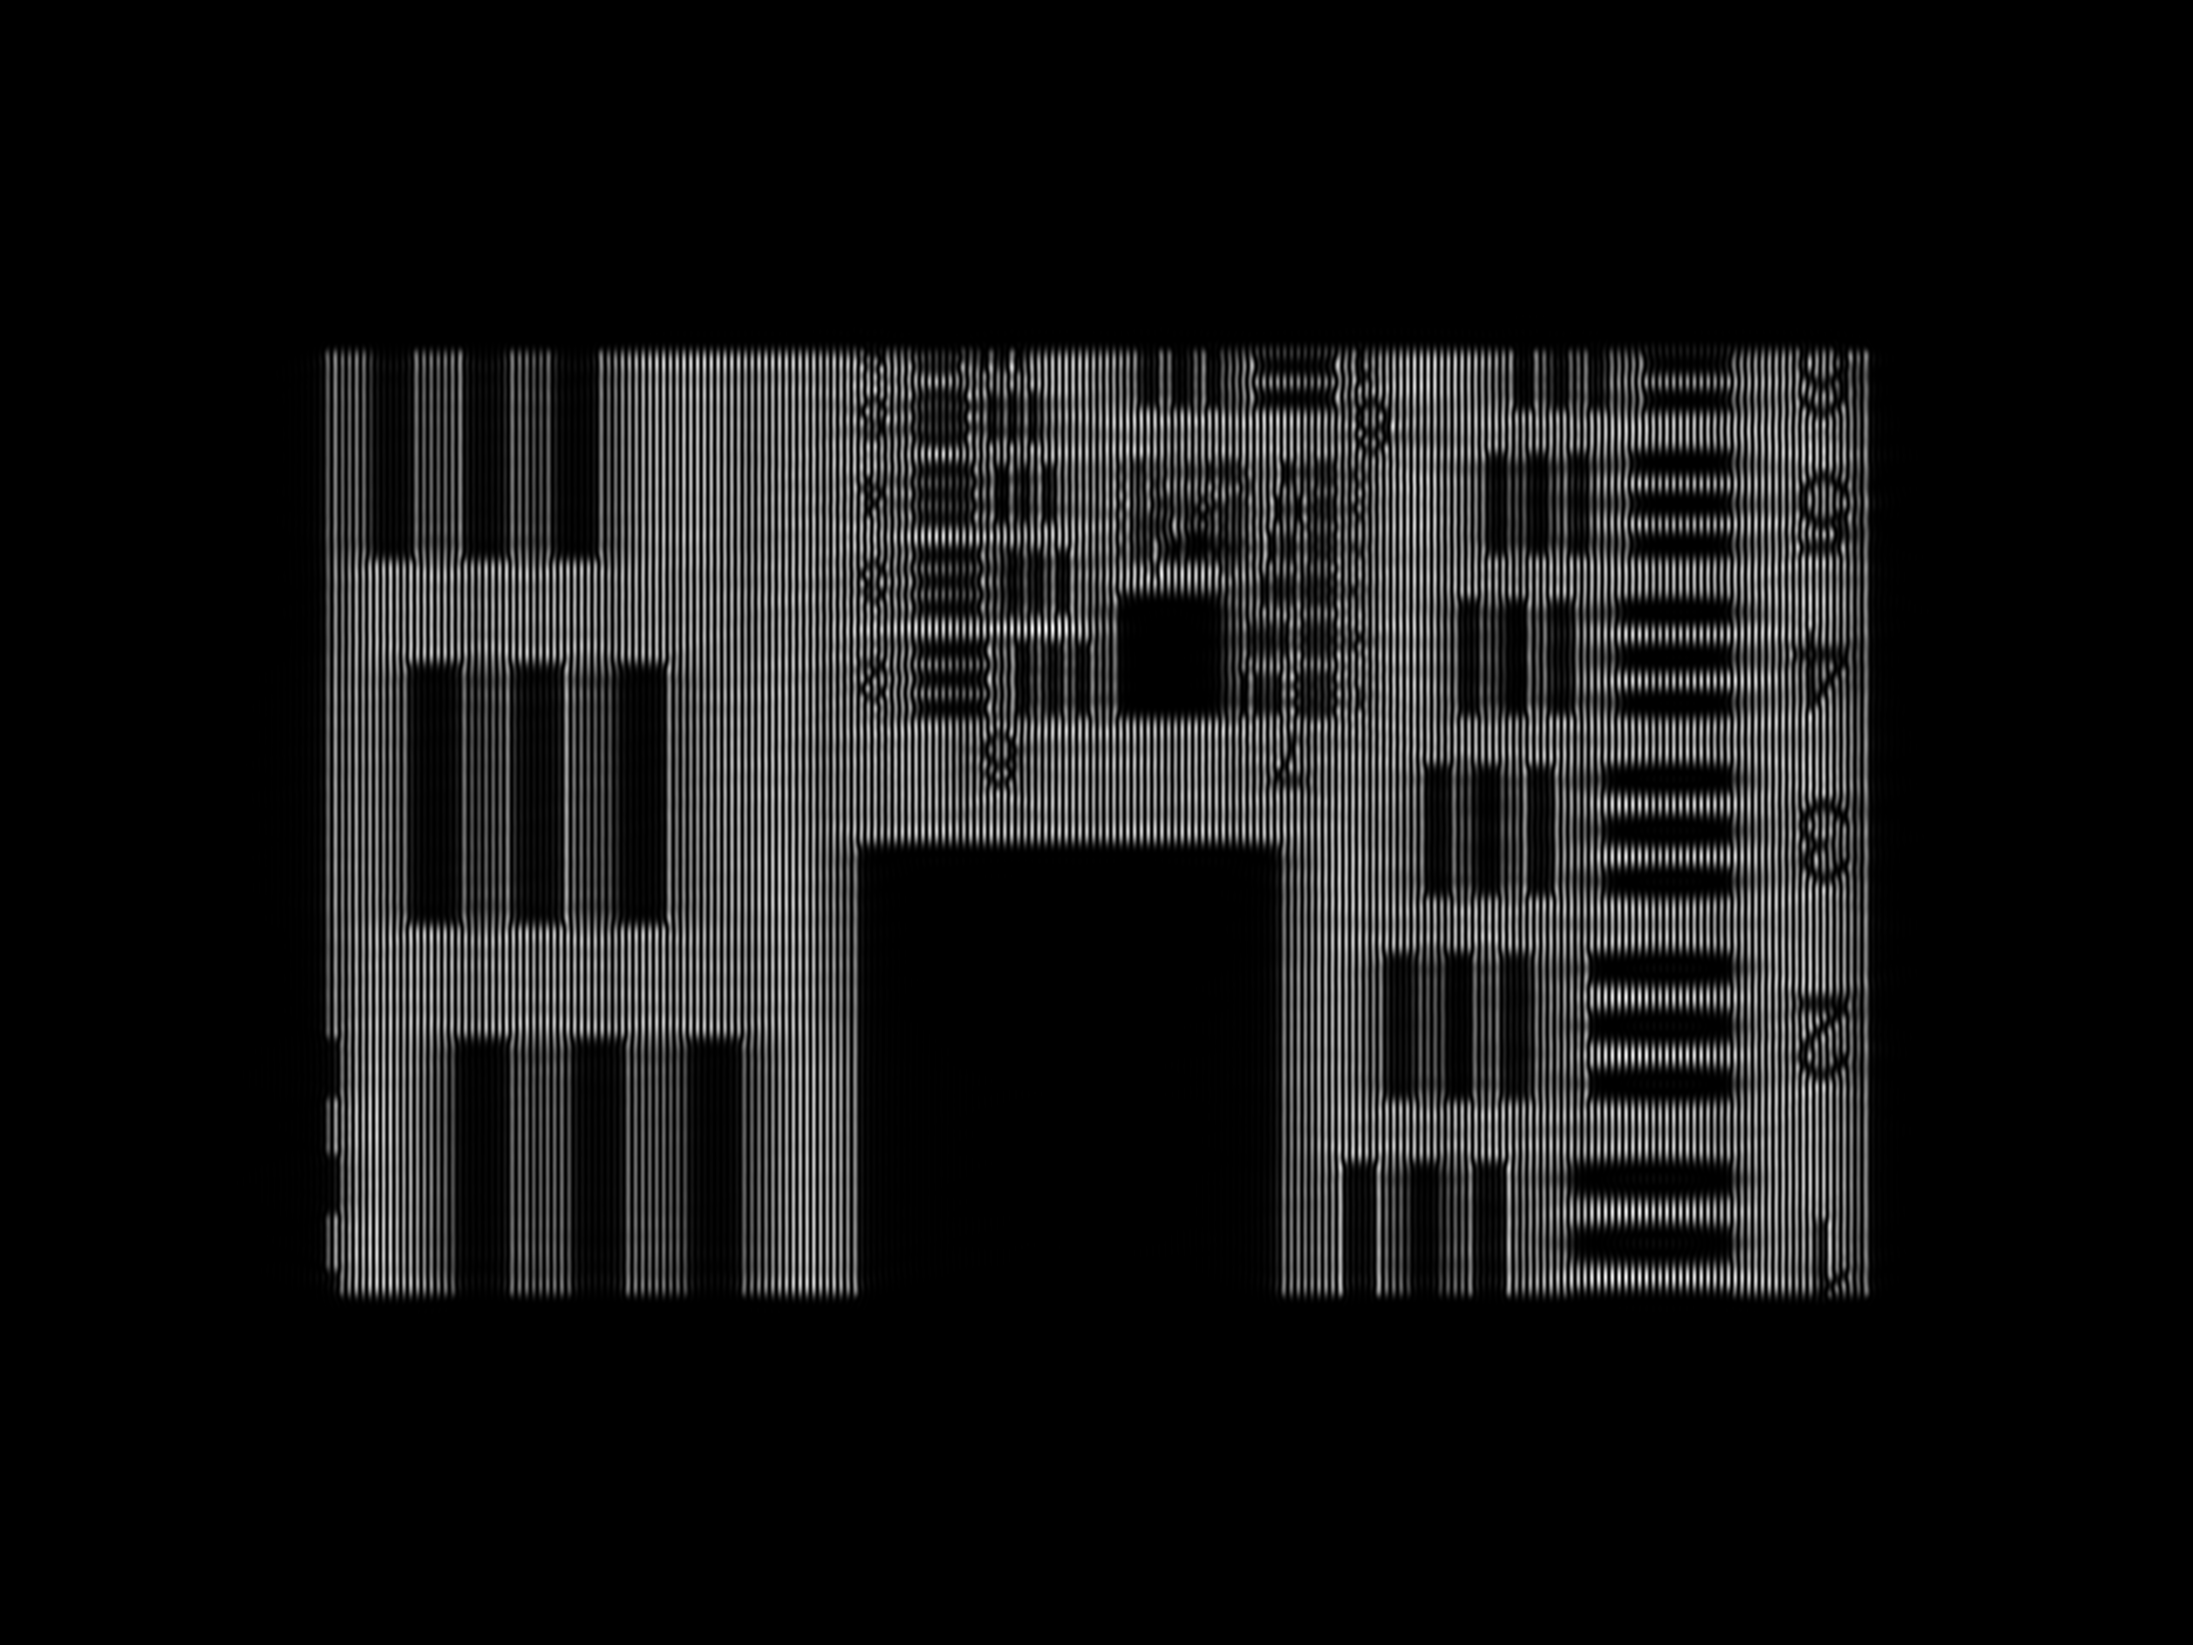
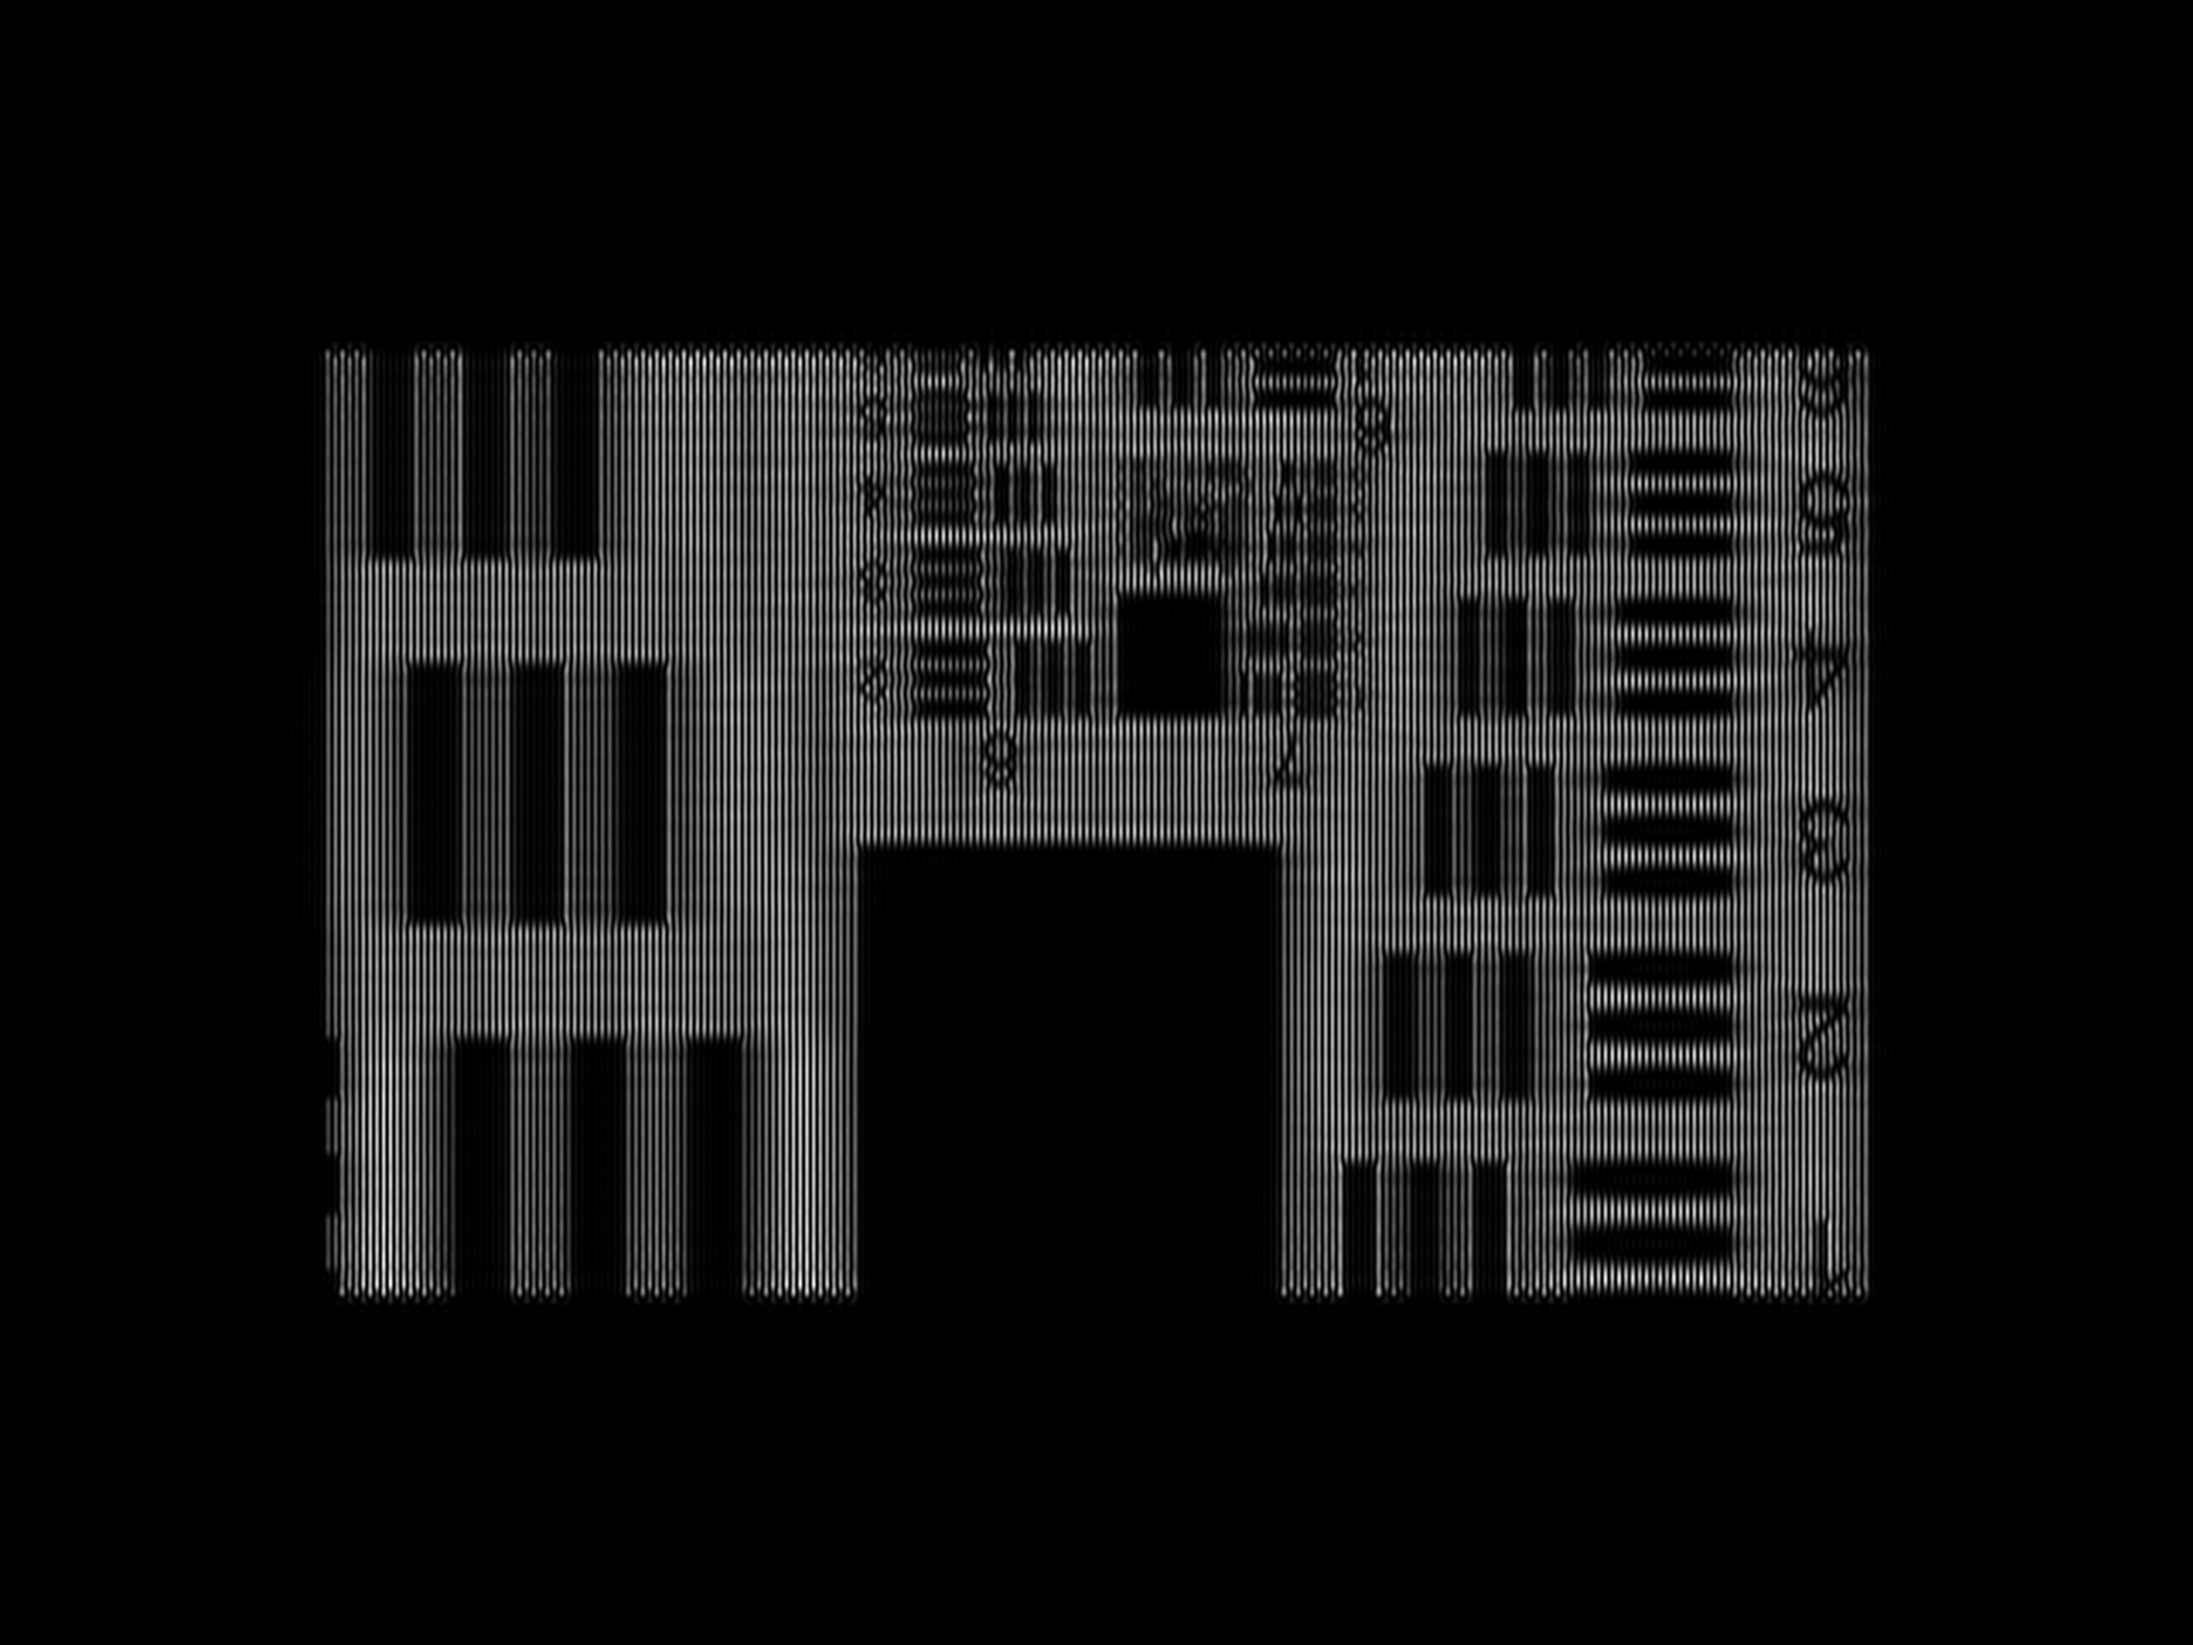
Push pa jose

diff --git a/Proyecto/microscopio.py b/Proyecto/microscopio.py
@@ -13,7 +13,7 @@ foco_objetivo = 50E-3 #distancia focal del objetivo de microscopio
 foco_lenteFourier = 150E-3
 foco_posteriorIluminador = 40E-3
 foco_anteriorIluminador = 100E-3
-diametro_Diafragma = 6.03022E-3 #diametro de la pupila del objetivo de microscopio
+diametro_Diafragma = 6.1E-3 #diametro de la pupila del objetivo de microscopio
 ancho_franjaEspejos = 8
 
 #calculo de las caracteristicas de cada sistema
@@ -72,7 +72,7 @@ malla_XpatronDMD, malla_YpatronDMD = opt.malla_Puntos(pixeles_X, ancho_XventanaP
 
 
 ''' simulacion de las imagnes que obtiene el microscopio '''
-filtro = opt.funcion_Rectangulo(0.4E-3, 25E-3, None, malla_XlenteAnteriorDemagnificador, malla_YlenteAnteriorDemagnificador)
+filtro = opt.funcion_Circulo(0.3E-3, None, malla_XlenteAnteriorDemagnificador, malla_YlenteAnteriorDemagnificador)
 filtro = opt.invertir_Array(filtro)
 tamano_fisicoDMD = opt.funcion_Rectangulo(10E-3, 6E-3, None, malla_XpatronDMD, malla_YpatronDMD)
 
@@ -80,8 +80,10 @@ tamano_fisicoDMD = opt.funcion_Rectangulo(10E-3, 6E-3, None, malla_XpatronDMD, m
 ''' sistema de iluminacion '''
 lado_ordenesDifraccion = 5.4E-6 #longitud del lado de los cuadrados que componen el patron de difraccion del dmd usando en el sistema de iluminacion
 posicion_primerOrden = 7E-3 #posicion de los primeros ordenes de difraccion 1 y -1 que genera el patron de difraccion del dmd, se usan para codificar la frecuencia del patron sinusoidal con el que se va a iluminar
-patron_DMD = opt.rejilla_difraccion(ancho_franjaEspejos, malla_XpatronDMD, malla_YpatronDMD, -45) * tamano_fisicoDMD
-campo_bloqueo = tlen.imagen_Sistema(propiedad_sistemaAnteriorIluminador, patron_DMD, ancho_XventanaLenteAnteriorDemagnificador, pixeles_X,  ancho_YventanaLenteAnteriorDemagnificador, pixeles_Y, longitud_Onda) * filtro
+patron_DMD = tamano_fisicoDMD
+#opt.rejilla_difraccion(ancho_franjaEspejos, malla_XpatronDMD, malla_YpatronDMD, 90) * tamano_fisicoDMD
+campo_bloqueo = tlen.imagen_Sistema(propiedad_sistemaAnteriorIluminador, patron_DMD, ancho_XventanaLenteAnteriorDemagnificador, pixeles_X,  ancho_YventanaLenteAnteriorDemagnificador, pixeles_Y, longitud_Onda)
+#* filtro
 campo_iluminadorDemagnificado = tlen.imagen_SistemaShift(propiedad_sistemaPosteriorIluminador, campo_bloqueo, ancho_XventanaPatronDemagnificado, pixeles_X,  ancho_YventanaPatronDemagnificado, pixeles_Y, longitud_Onda)
 campo_lenteFourier = tlen.imagen_SistemaShift(propiedad_sistemaTransformadaFourier, campo_iluminadorDemagnificado, ancho_XventanaSpliterIluminador, pixeles_X,  ancho_YventanaSpliterIluminador, pixeles_Y, longitud_Onda)
 campo_muestra = tlen.imagen_SistemaShift(propiedad_sistemaObjetivo, campo_lenteFourier, ancho_XventanaMuestra, pixeles_X,  ancho_YventanaMuestra, pixeles_Y, longitud_Onda)
@@ -95,15 +97,15 @@ campo_sensor = tlen.imagen_SistemaShift(propiedad_sistemaLenteTubo, espectro_pup
 modulo_cuadradoSensor = (np.abs(campo_sensor))**2
 
 
-graph.intensidad(patron_DMD, ancho_XventanaPatronDMD, ancho_YventanaPatronDMD)
-graph.intensidad(campo_bloqueo, ancho_XventanaLenteAnteriorDemagnificador, ancho_YventanaLenteAnteriorDemagnificador, 0, 0.01)
-graph.intensidad(campo_iluminadorDemagnificado, ancho_XventanaPatronDemagnificado, ancho_YventanaPatronDemagnificado)
-graph.intensidad(campo_lenteFourier, ancho_XventanaSpliterIluminador, ancho_YventanaSpliterIluminador)
-graph.intensidad(campo_muestra, ancho_XventanaMuestra, ancho_YventanaMuestra)
-graph.intensidad(muestra_iluminada, ancho_XventanaMuestra, ancho_YventanaMuestra)
-graph.intensidad(campo_espectroMuestra, ancho_XventanaSpliterImagen, ancho_YventanaSpliterImagen, 0, 0.001)
-graph.intensidad(espectro_pupila, ancho_XventanaSpliterImagen, ancho_YventanaSpliterImagen, 0, 0.01)
+#graph.intensidad(patron_DMD, ancho_XventanaPatronDMD, ancho_YventanaPatronDMD)
+#graph.intensidad(campo_bloqueo, ancho_XventanaLenteAnteriorDemagnificador, ancho_YventanaLenteAnteriorDemagnificador, 0, 0.01)
+#graph.intensidad(campo_iluminadorDemagnificado, ancho_XventanaPatronDemagnificado, ancho_YventanaPatronDemagnificado)
+#graph.intensidad(campo_lenteFourier, ancho_XventanaSpliterIluminador, ancho_YventanaSpliterIluminador)
+#graph.intensidad(campo_muestra, ancho_XventanaMuestra, ancho_YventanaMuestra)
+#graph.intensidad(muestra_iluminada, ancho_XventanaMuestra, ancho_YventanaMuestra)
+#graph.intensidad(campo_espectroMuestra, ancho_XventanaSpliterImagen, ancho_YventanaSpliterImagen, 0, 0.001)
+#graph.intensidad(espectro_pupila, ancho_XventanaSpliterImagen, ancho_YventanaSpliterImagen, 0, 0.01)
 graph.intensidad(campo_sensor, longitud_SensorX, longitud_SensorY)
 
 
-#plt.imsave('-45_8_simulado.png', modulo_cuadradoSensor, cmap = 'gray')
+plt.imsave('uniforme_simulado.png', modulo_cuadradoSensor, cmap = 'gray')

diff --git a/Proyecto/reconstruccion.py b/Proyecto/reconstruccion.py
@@ -121,7 +121,7 @@ for iteracion in range (0, len(lista_imagenes)):
 #graph.intensidad(pupila_sistetica, ancho_XventanaSpliterImagen, ancho_YventanaSpliterImagen)
 
 
-graph.intensidad_Logaritmica(espectro_imagen, ancho_XventanaSpliterImagen, ancho_YventanaSpliterImagen)
+#graph.intensidad_Logaritmica(espectro_imagen, ancho_XventanaSpliterImagen, ancho_YventanaSpliterImagen)
 
 imagen_reconstruida = np.fft.ifft2(espectro_imagen)
 graph.intensidad(imagen_reconstruida, longitud_SensorX, longitud_SensorY, 0, 0.3)
